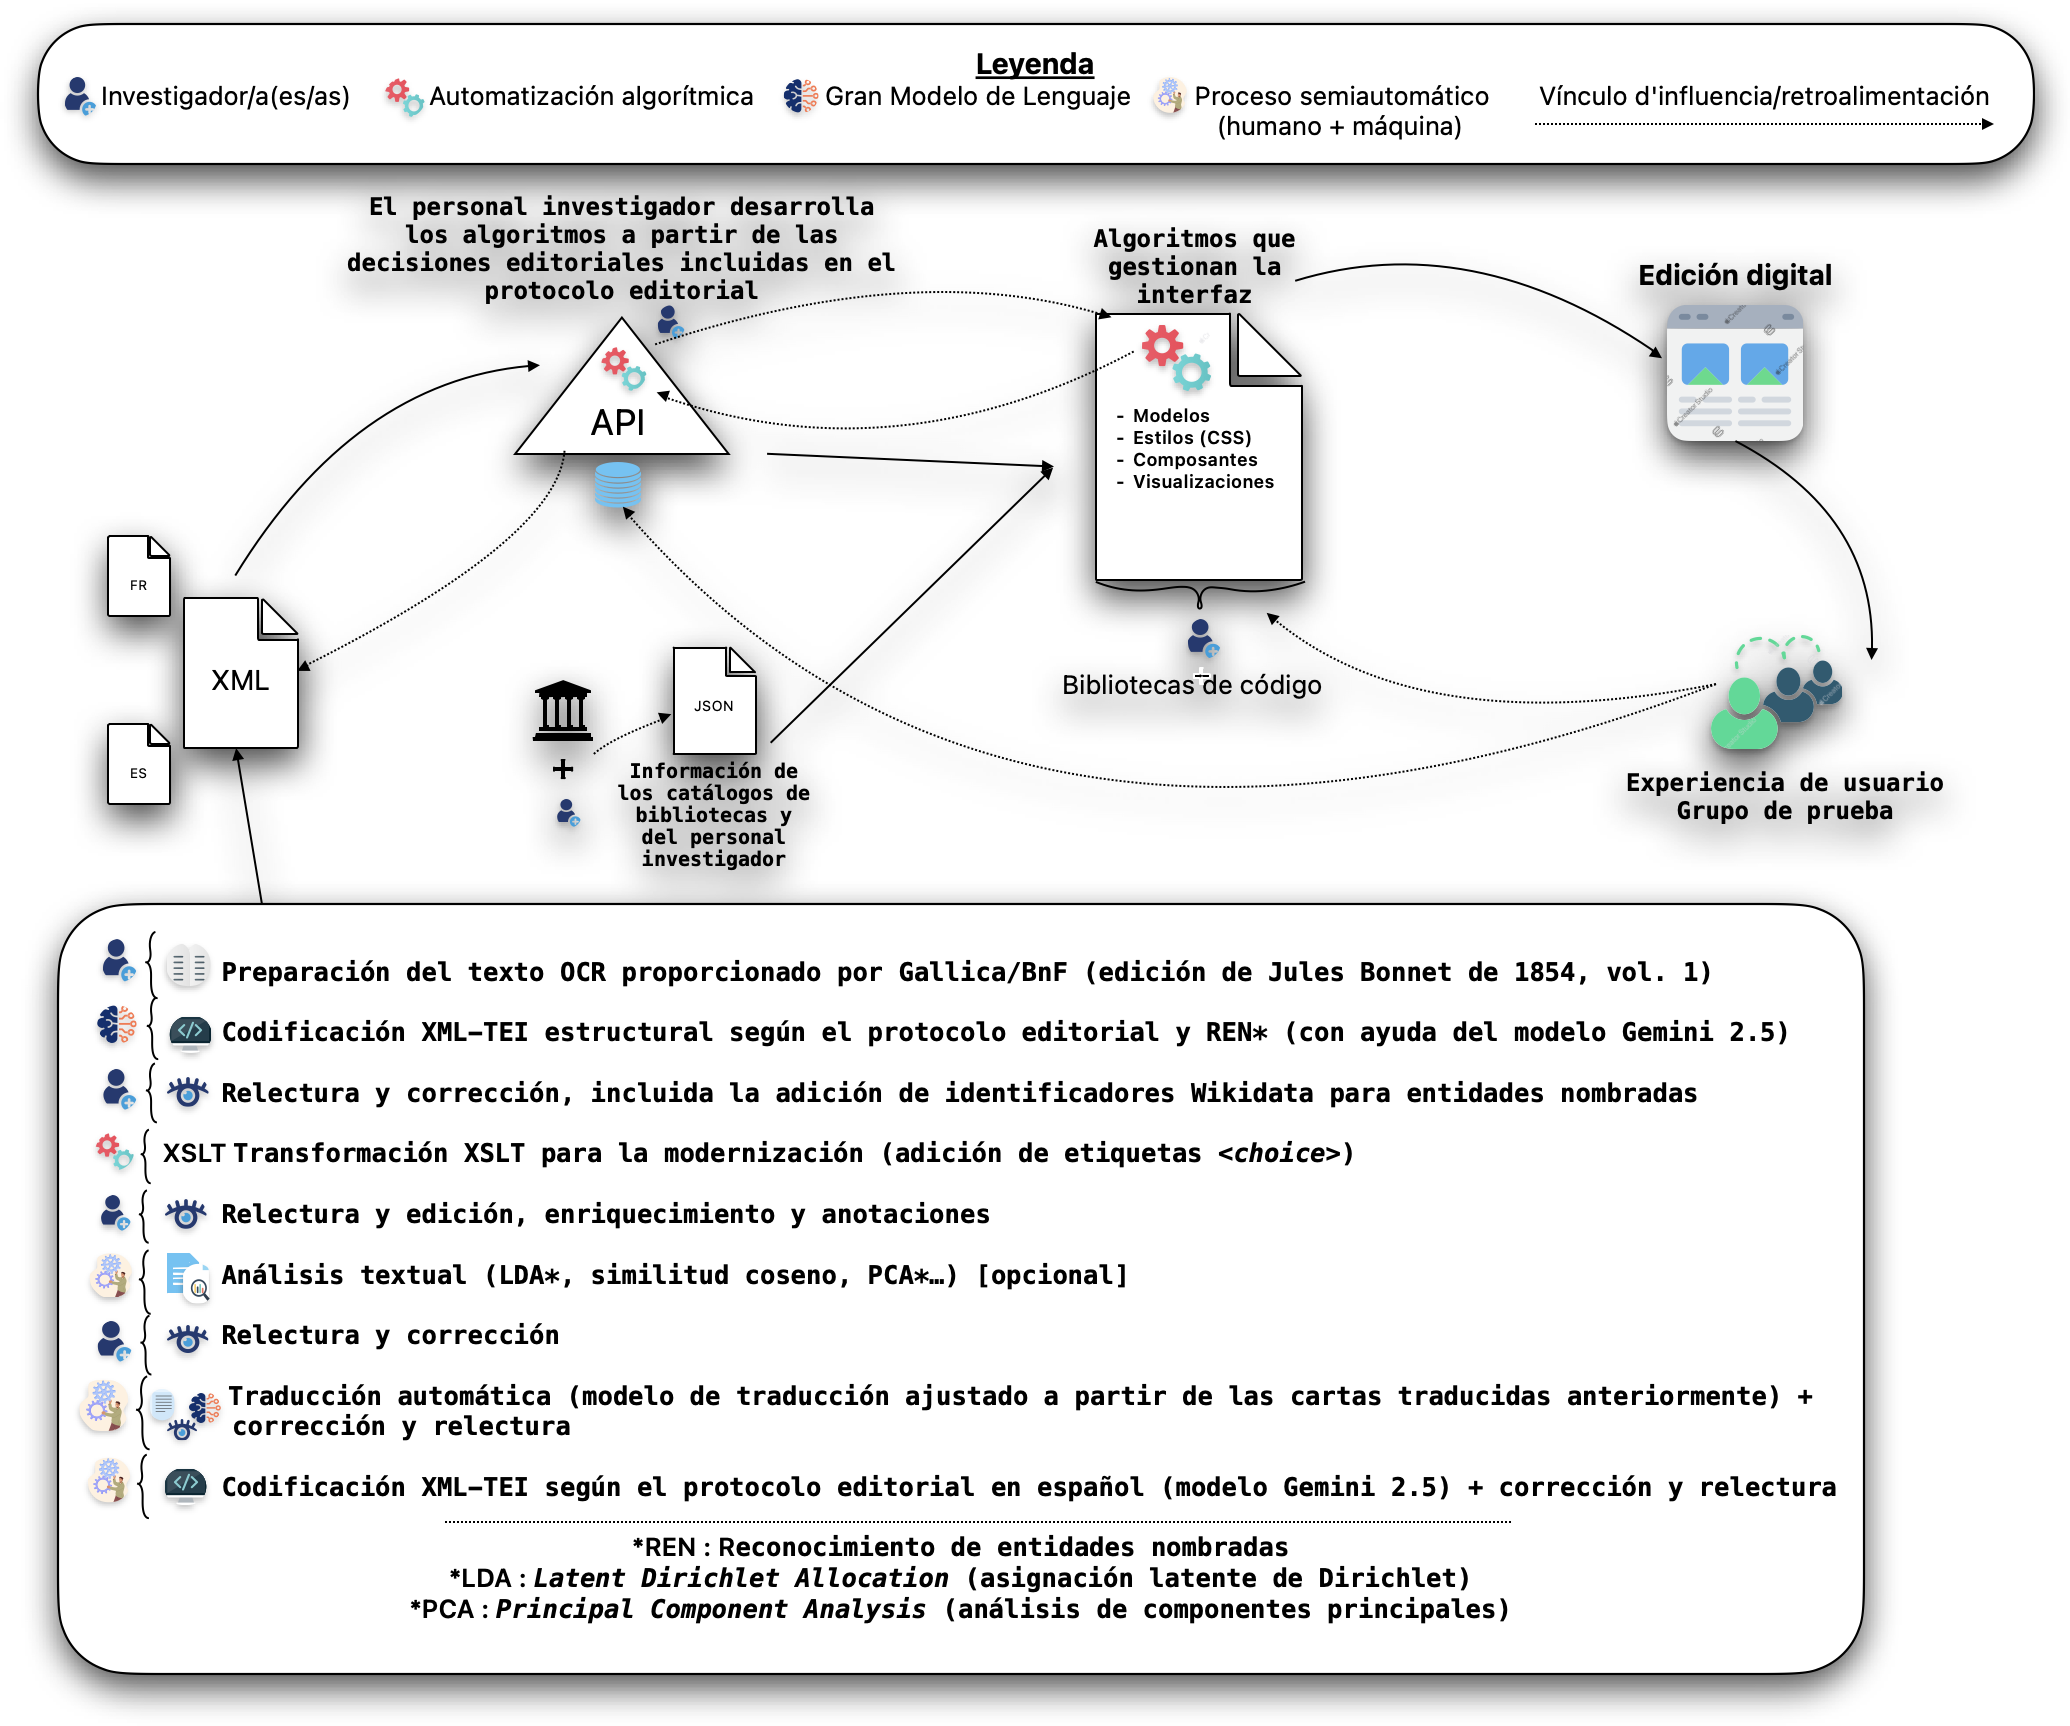
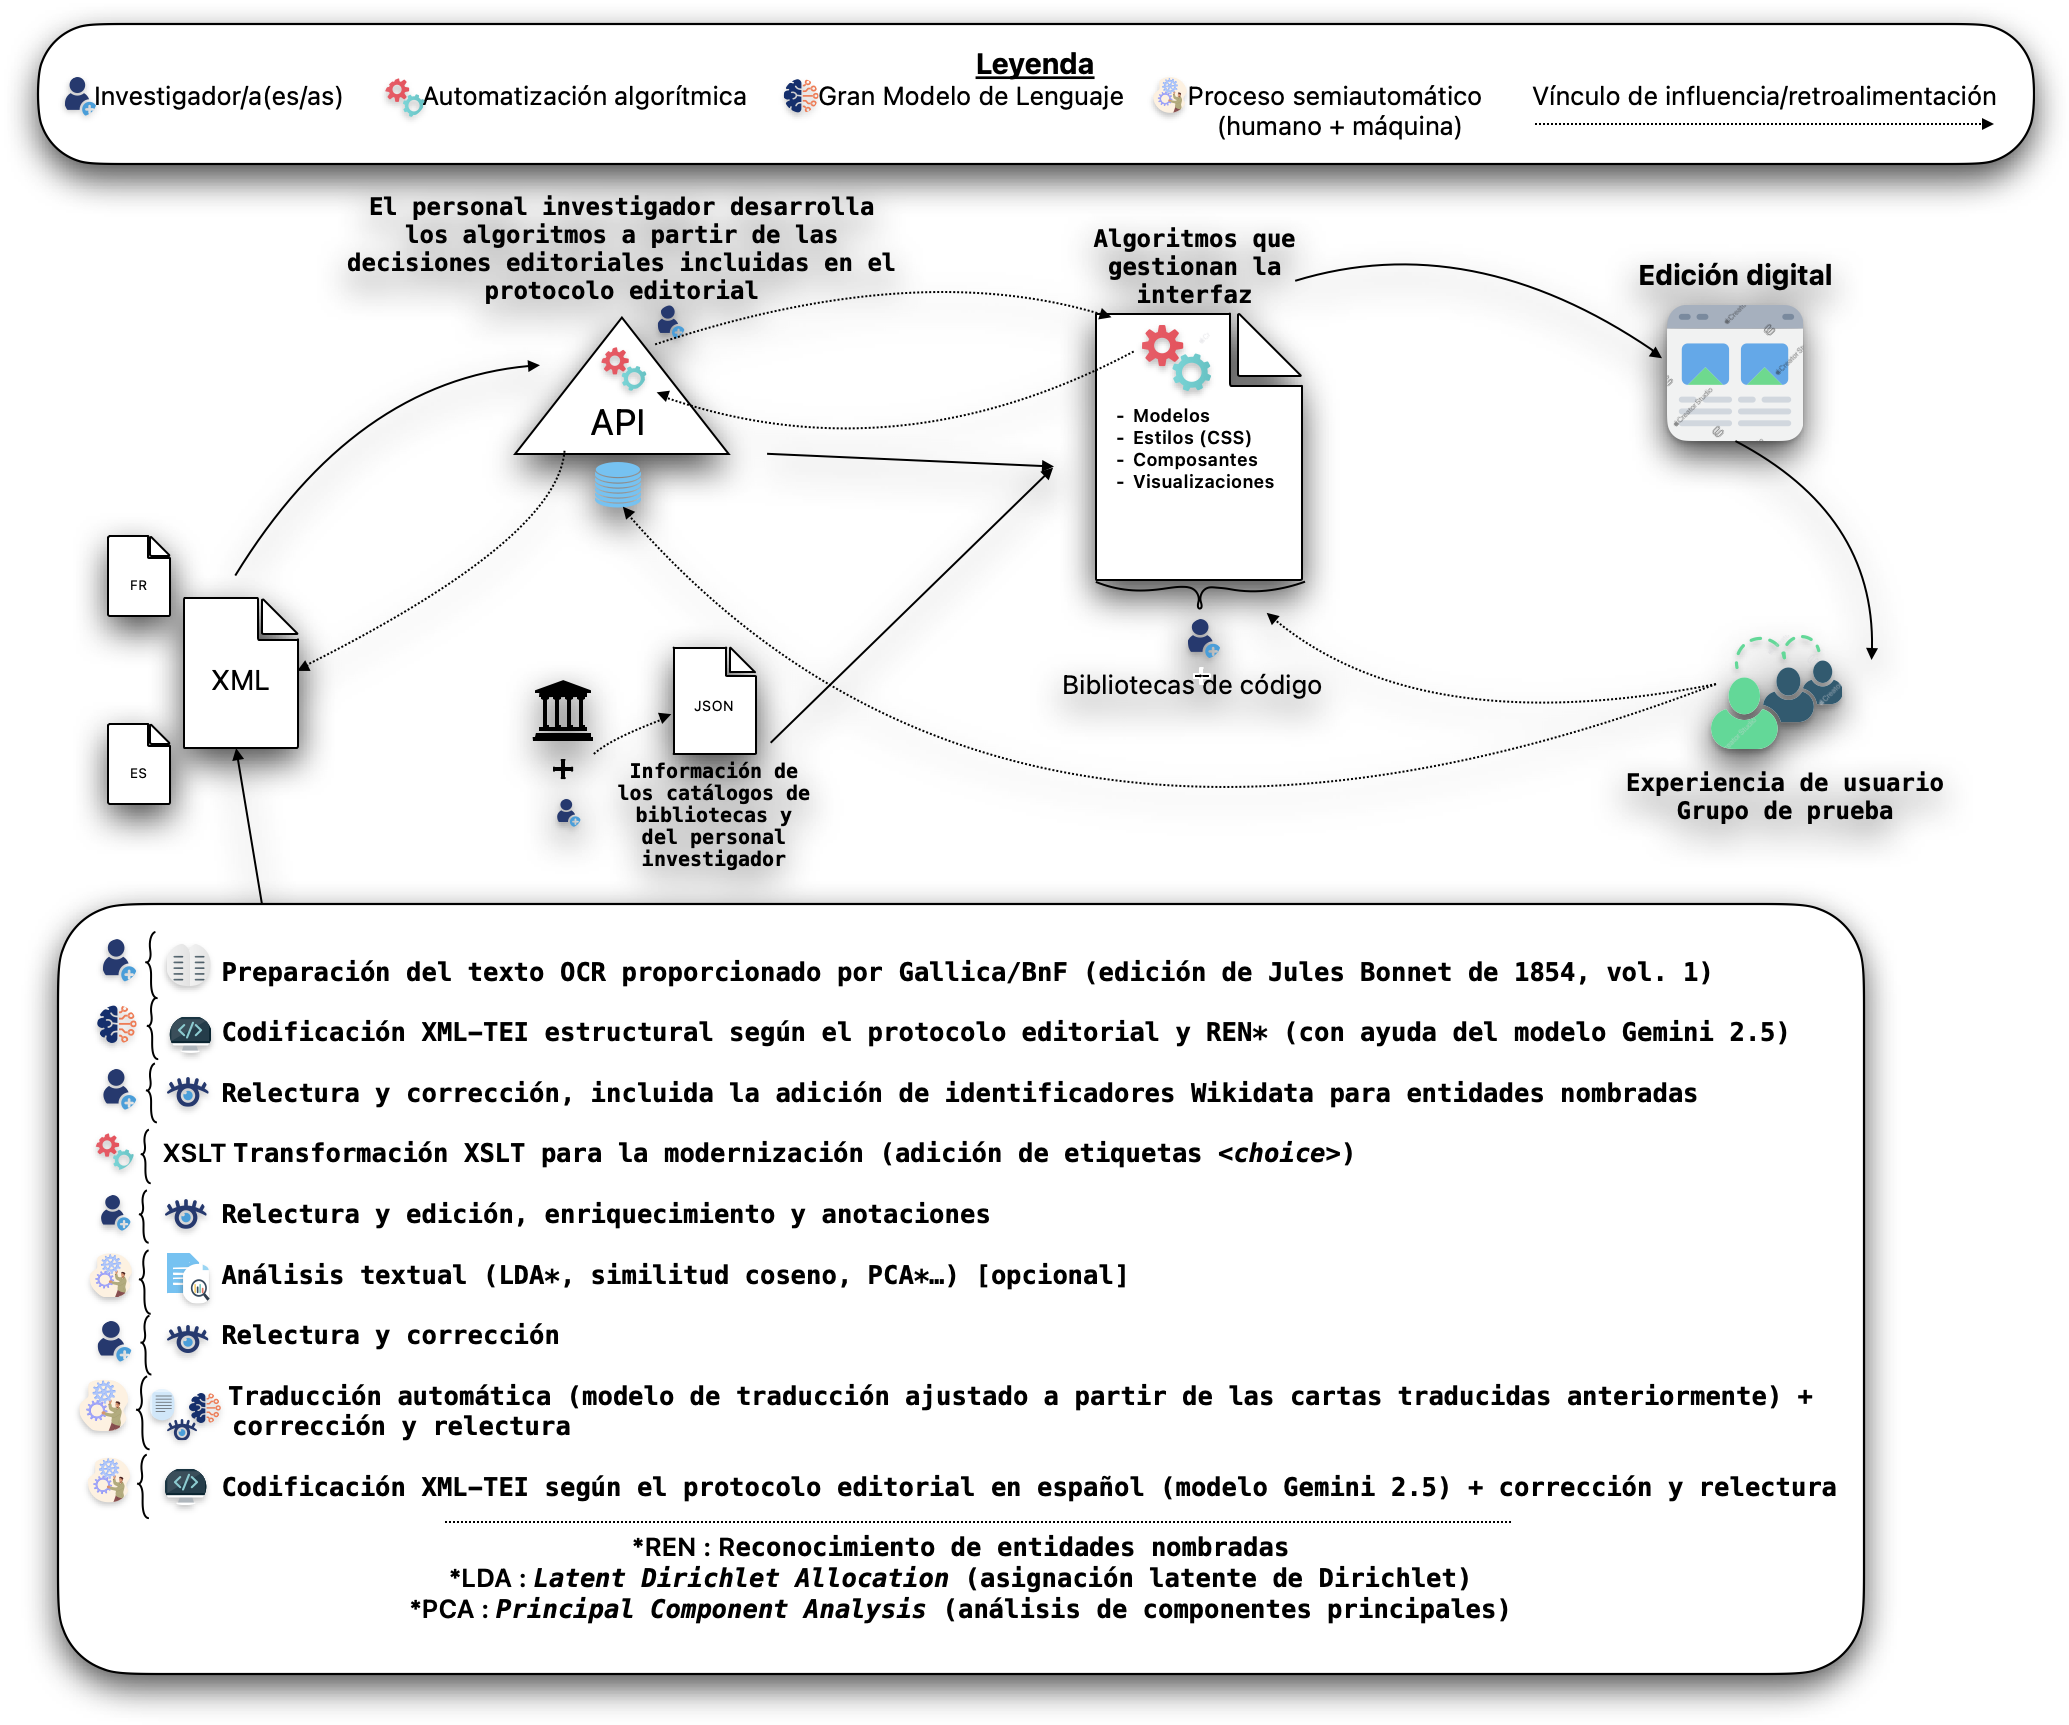
correcting minor mistakes in research page (Spanish)--updated citation data

diff --git a/src/lib/fr_es.js b/src/lib/fr_es.js
@@ -81,7 +81,7 @@ export const fr_es = {
         citation_text_3: ", de <em>Lettres de Calvin</em>, Édition critique numérique, données publiées le",
         citation_text_4: "lettres. Université de Montréal.",
         pdf_avis: "Ce PDF est un recueil de lettres généré à partir des filtres appliqués dans la présente édition numérique. L'édition numérique est en constante évolution et mise à jour. La génération d'un autre PDF avec les mêmes filtres peut ne pas aboutir au même contenu.",
-        misajour: "Dernière mise à jour : 17 septembre 2026"
+        misajour: "Dernière mise à jour : 18 septembre 2026"
     },
     es: {
         site_title: "Cartas de Calvino",
@@ -165,6 +165,6 @@ export const fr_es = {
         citation_text_3: ", de <em>Cartas de Calvino</em>, Edición crítica digital, datos publicados el",
         citation_text_4: "cartas. Université de Montréal.",
         pdf_avis: "Este PDF es una colección de cartas generada a partir de los filtros aplicados en la presente edición digital. La edición digital se encuentra en constante desarrollo y actualización. La generación de otro PDF con los mismos filtros puede no resultar en el mismo contenido.",
-        misajour: "Última actualización : 17 de septiembre de 2026"
+        misajour: "Última actualización : 18 de septiembre de 2026"
     }
 }

diff --git a/src/lib/data/mdes/recherche.md b/src/lib/data/mdes/recherche.md
@@ -131,26 +131,26 @@ Esta es una lista más detallada de los datos:
 
 ### Citas recomendadas:
 
-- ***Cartas de Calvino*:** Calvino, Juan. _Cartas de Calvino_. Editado por Yanet Hernández Pedraza. Université de Montréal, 2025. Edición digital. [https://lettres-calvin.netlify.app/es](https://lettres-calvin.netlify.app/es).
+- ***Cartas de Calvino*:** Calvino, Juan. _Cartas de Calvino_. Editado por Yanet Hernández Pedraza. Universidad de Montreal, 2025. Edición digital. [https://lettres-calvin.netlify.app/es](https://lettres-calvin.netlify.app/es).
 - **Repositorios de GitHub:**
 	- Hernández Pedraza, Y. (2026). *Lettres de Calvin* (versión v1.4) [software].
 	- Hernández Pedraza, Y. (2026). *Process Docs* (versión v1.0.4) [conjunto de datos].
 - **Versiones archivadas en Zenodo:**
-	- Hernández Pedraza, Yanet. _Lettres de Calvin_. V. 1.4. Zenodo, archivado el 17 de septiembre de 2026. [https://doi.org/10.5281/zenodo.21925258](https://doi.org/10.5281/zenodo.21925258).
-	- Hernández Pedraza, Yanet. « Process Docs ». Proceso editorial. V. 1.0.4. Zenodo, 17 de septiembre de 2026. [https://doi.org/10.5281/zenodo.22073100](https://doi.org/10.5281/zenodo.22073100).
+	- Hernández Pedraza, Yanet. _Lettres de Calvin_. V. 1.4. Zenodo, archivado el 18 de septiembre de 2026. [https://doi.org/10.5281/zenodo.22822414](https://doi.org/10.5281/zenodo.22822414).
+	- Hernández Pedraza, Yanet. « Process Docs ». Proceso editorial. V. 1.0.4. Zenodo, 18 de septiembre de 2026. [https://doi.org/10.5281/zenodo.22826915](https://doi.org/10.5281/zenodo.22826915).
 
 ### Créditos
 
-Este proyecto forma parte de la investigación doctoral de Yanet Hernández Pedraza, realizada en la Université de Montréal.
+Este proyecto forma parte de la investigación doctoral de Yanet Hernández Pedraza, realizada en la Universidad de Montreal.
 
 **Autora del proyecto:** Yanet Hernández Pedraza  
-**Codirectores de investigación:** Michael E. Sinatra (Université de Montréal) y Dario Brancato (Universidad Concordia)  
-**Institución académica:** Université de Montréal  
-**Financiación:** Groupe de recherche sur les éditions critiques en contexte numérique (GREN), Fonds de recherche du Québec y Études supérieures et postdoctorales (ESP) de la Université de Montréal.
+**Codirectores de investigación:** Michael E. Sinatra (Universidad de Montreal) y Dario Brancato (Universidad Concordia)  
+**Institución académica:** Universidad de Montreal  
+**Financiación:** *Groupe de recherche sur les éditions critiques en contexte numérique (GREN)*, *Fonds de recherche du Québec* y *Études supérieures et postdoctorales (ESP)* de la Universidad de Montreal.
 
 ----
 
-### Notes
+### Notas
 
 <p><sup><a name="note1" href="#n1">1</a></sup>Calvin, <em>Lettres de Jean Calvin : lettres françaises.</em></p>
 <p><sup><a name="note2" href="#n2">2</a></sup>Véase Stadler et al., « Towards a Model for Encoding Correspondence in the TEI ».</p>

diff --git a/src/lib/data/md/recherche.md b/src/lib/data/md/recherche.md
@@ -128,13 +128,13 @@ Voici une liste plus détaillée des données&nbsp;:
 
 ### Citations recommandées&nbsp;:
 
-- ***Lettres de Calvin*&nbsp;:** Calvin, Jean. _Lettres de Calvin_. Édité par Yanet Hernández Pedraza. Université de Montréal, 2025. Édition numérique. [https://lettres-calvin.netlify.app](https://lettres-calvin.netlify.app).
+- ***Lettres de Calvin*&nbsp;:** Calvin, Jean. _Lettres de Calvin_. Édité par Yanet Hernández Pedraza. Université de Montréal, 2025. Édition numérique. [https://lettres-calvin.netlify.app/fr](https://lettres-calvin.netlify.app/fr).
 - **Dépôts GitHub&nbsp;:**
 	- Hernández Pedraza, Y. (2026). Lettres de Calvin (Version v1.4) [Computer software]
 	- Hernández Pedraza, Y. (2026). Process Docs (Version v1.0.4) [Data set]
 - **Versions archivées sur Zenodo&nbsp;:**
-	- Hernández Pedraza, Yanet. _Lettres de Calvin_. V. 1.4. Zenodo, archivé le 17 septembre 2026. [https://doi.org/10.5281/zenodo.21925258](https://doi.org/10.5281/zenodo.21925258).
-	- Hernández Pedraza, Yanet. « Process Docs ». Processus éditorial. V. 1.0.4. Zenodo, 17 septembre 2026. [https://doi.org/10.5281/zenodo.22073100](https://doi.org/10.5281/zenodo.22073100).
+	- Hernández Pedraza, Yanet. _Lettres de Calvin_. V. 1.4. Zenodo, archivé le 17 septembre 2026. [https://doi.org/10.5281/zenodo.22822414](https://doi.org/10.5281/zenodo.22822414).
+	- Hernández Pedraza, Yanet. « Process Docs ». Processus éditorial. V. 1.0.4. Zenodo, 17 septembre 2026. [https://doi.org/10.5281/zenodo.22826915](https://doi.org/10.5281/zenodo.22826915).
 
 ### Crédits
 
